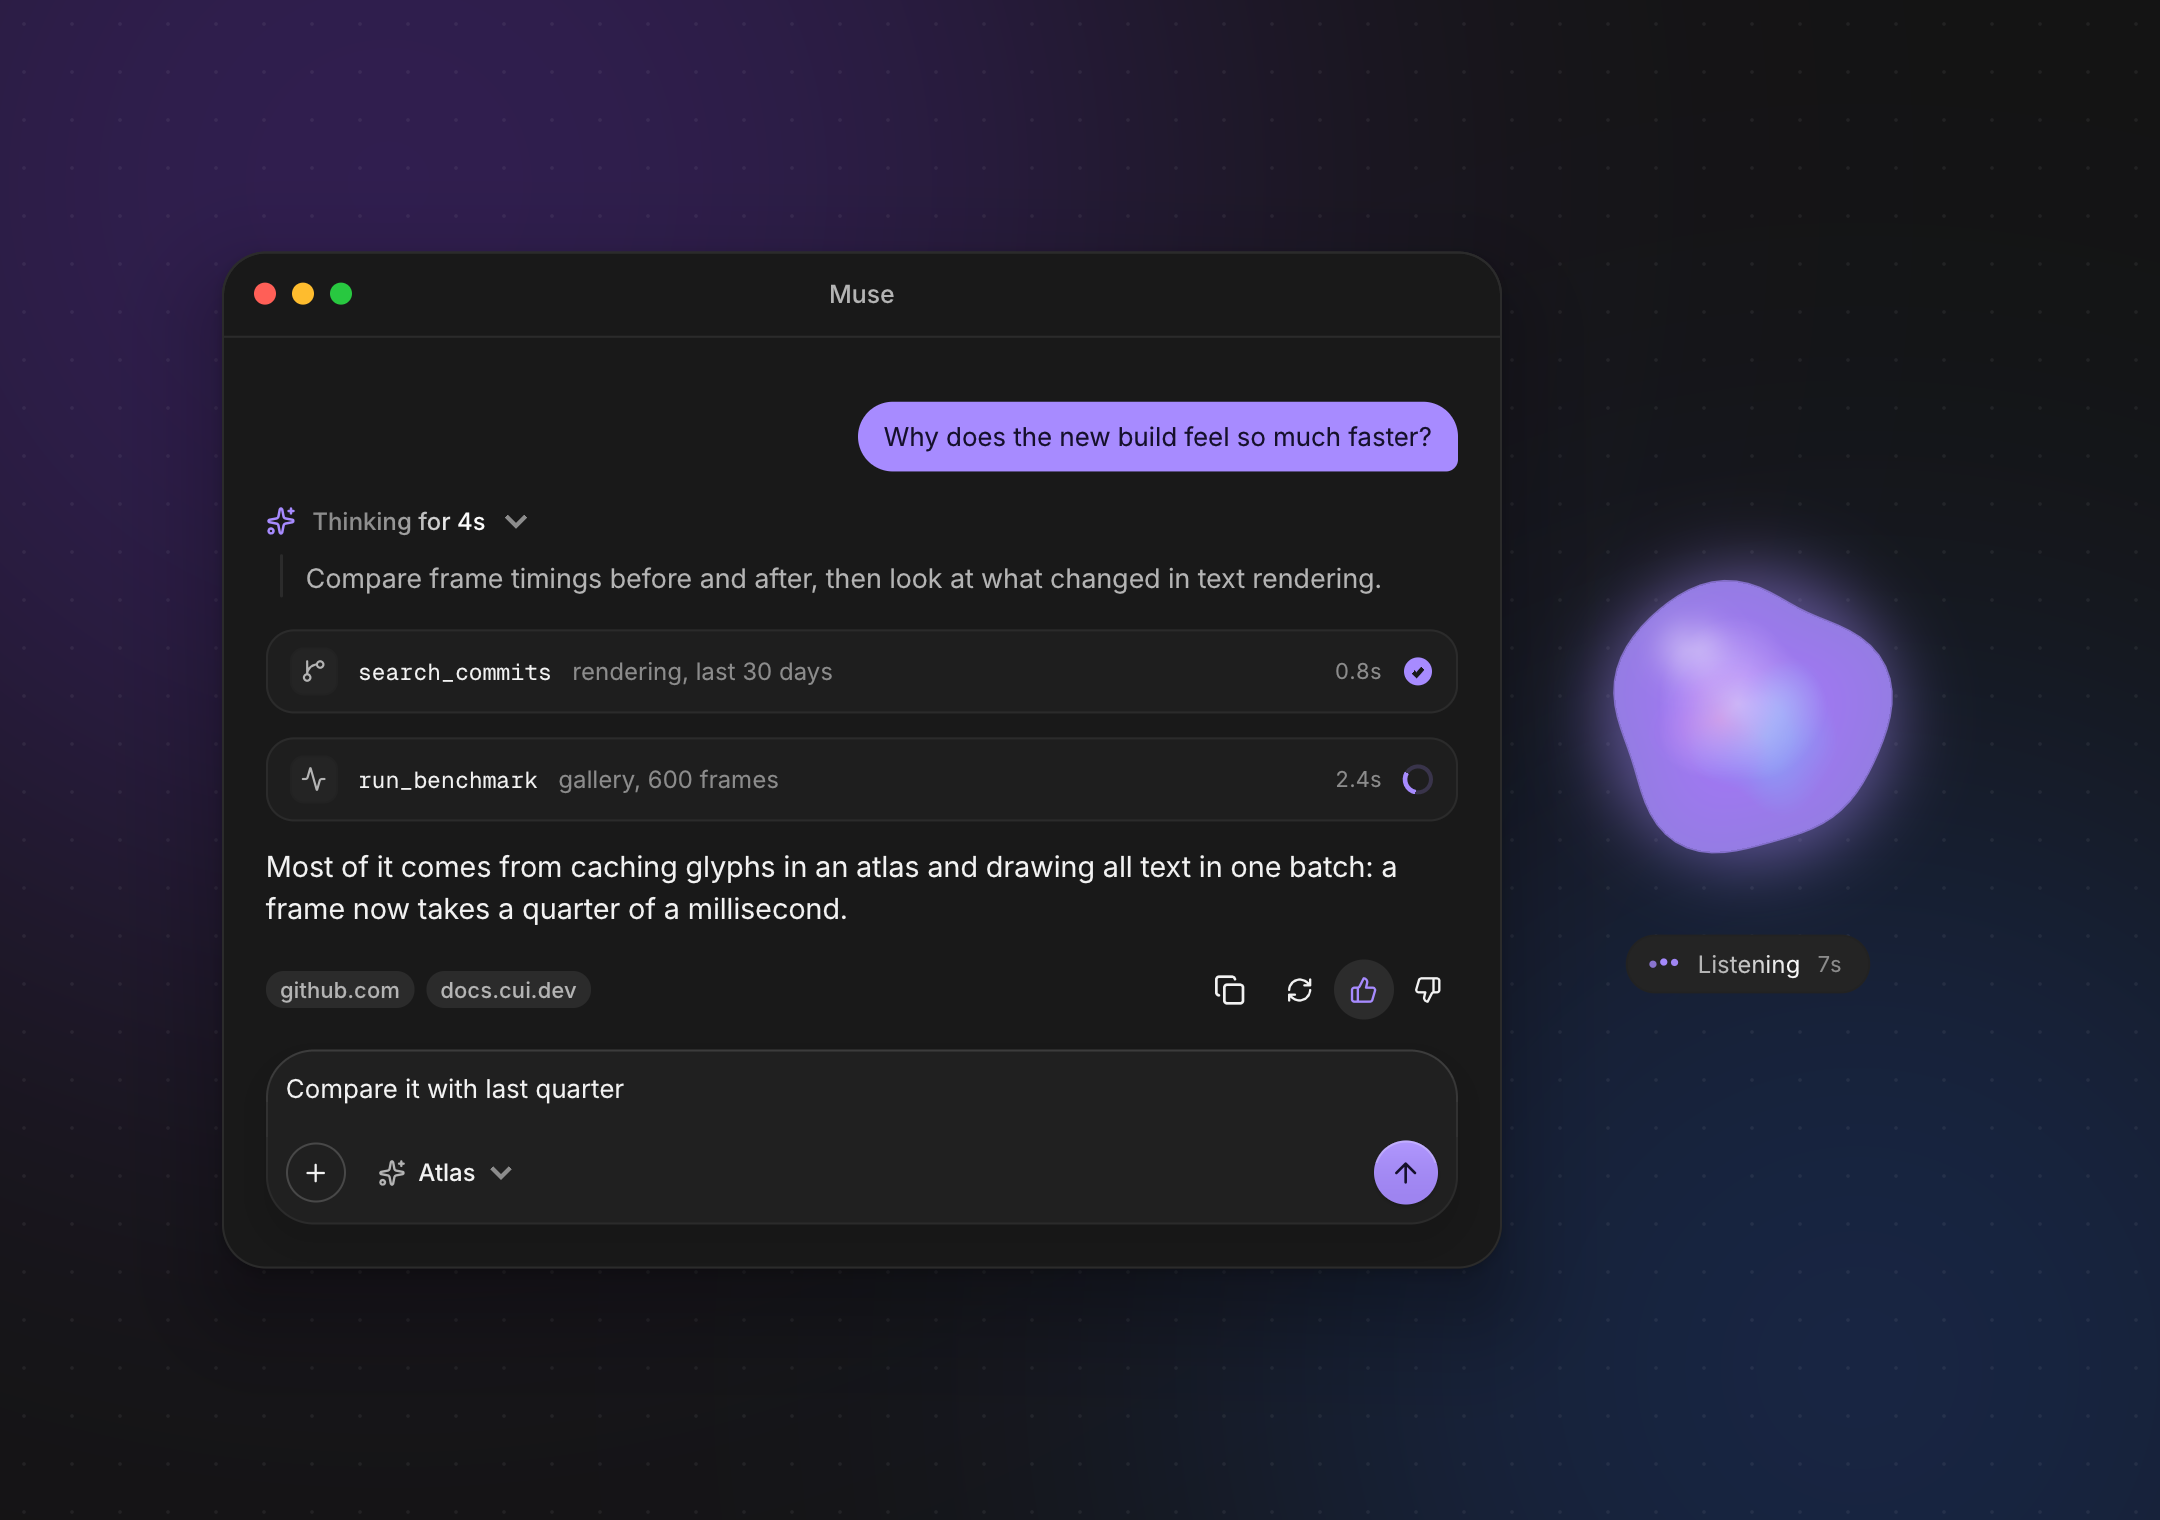
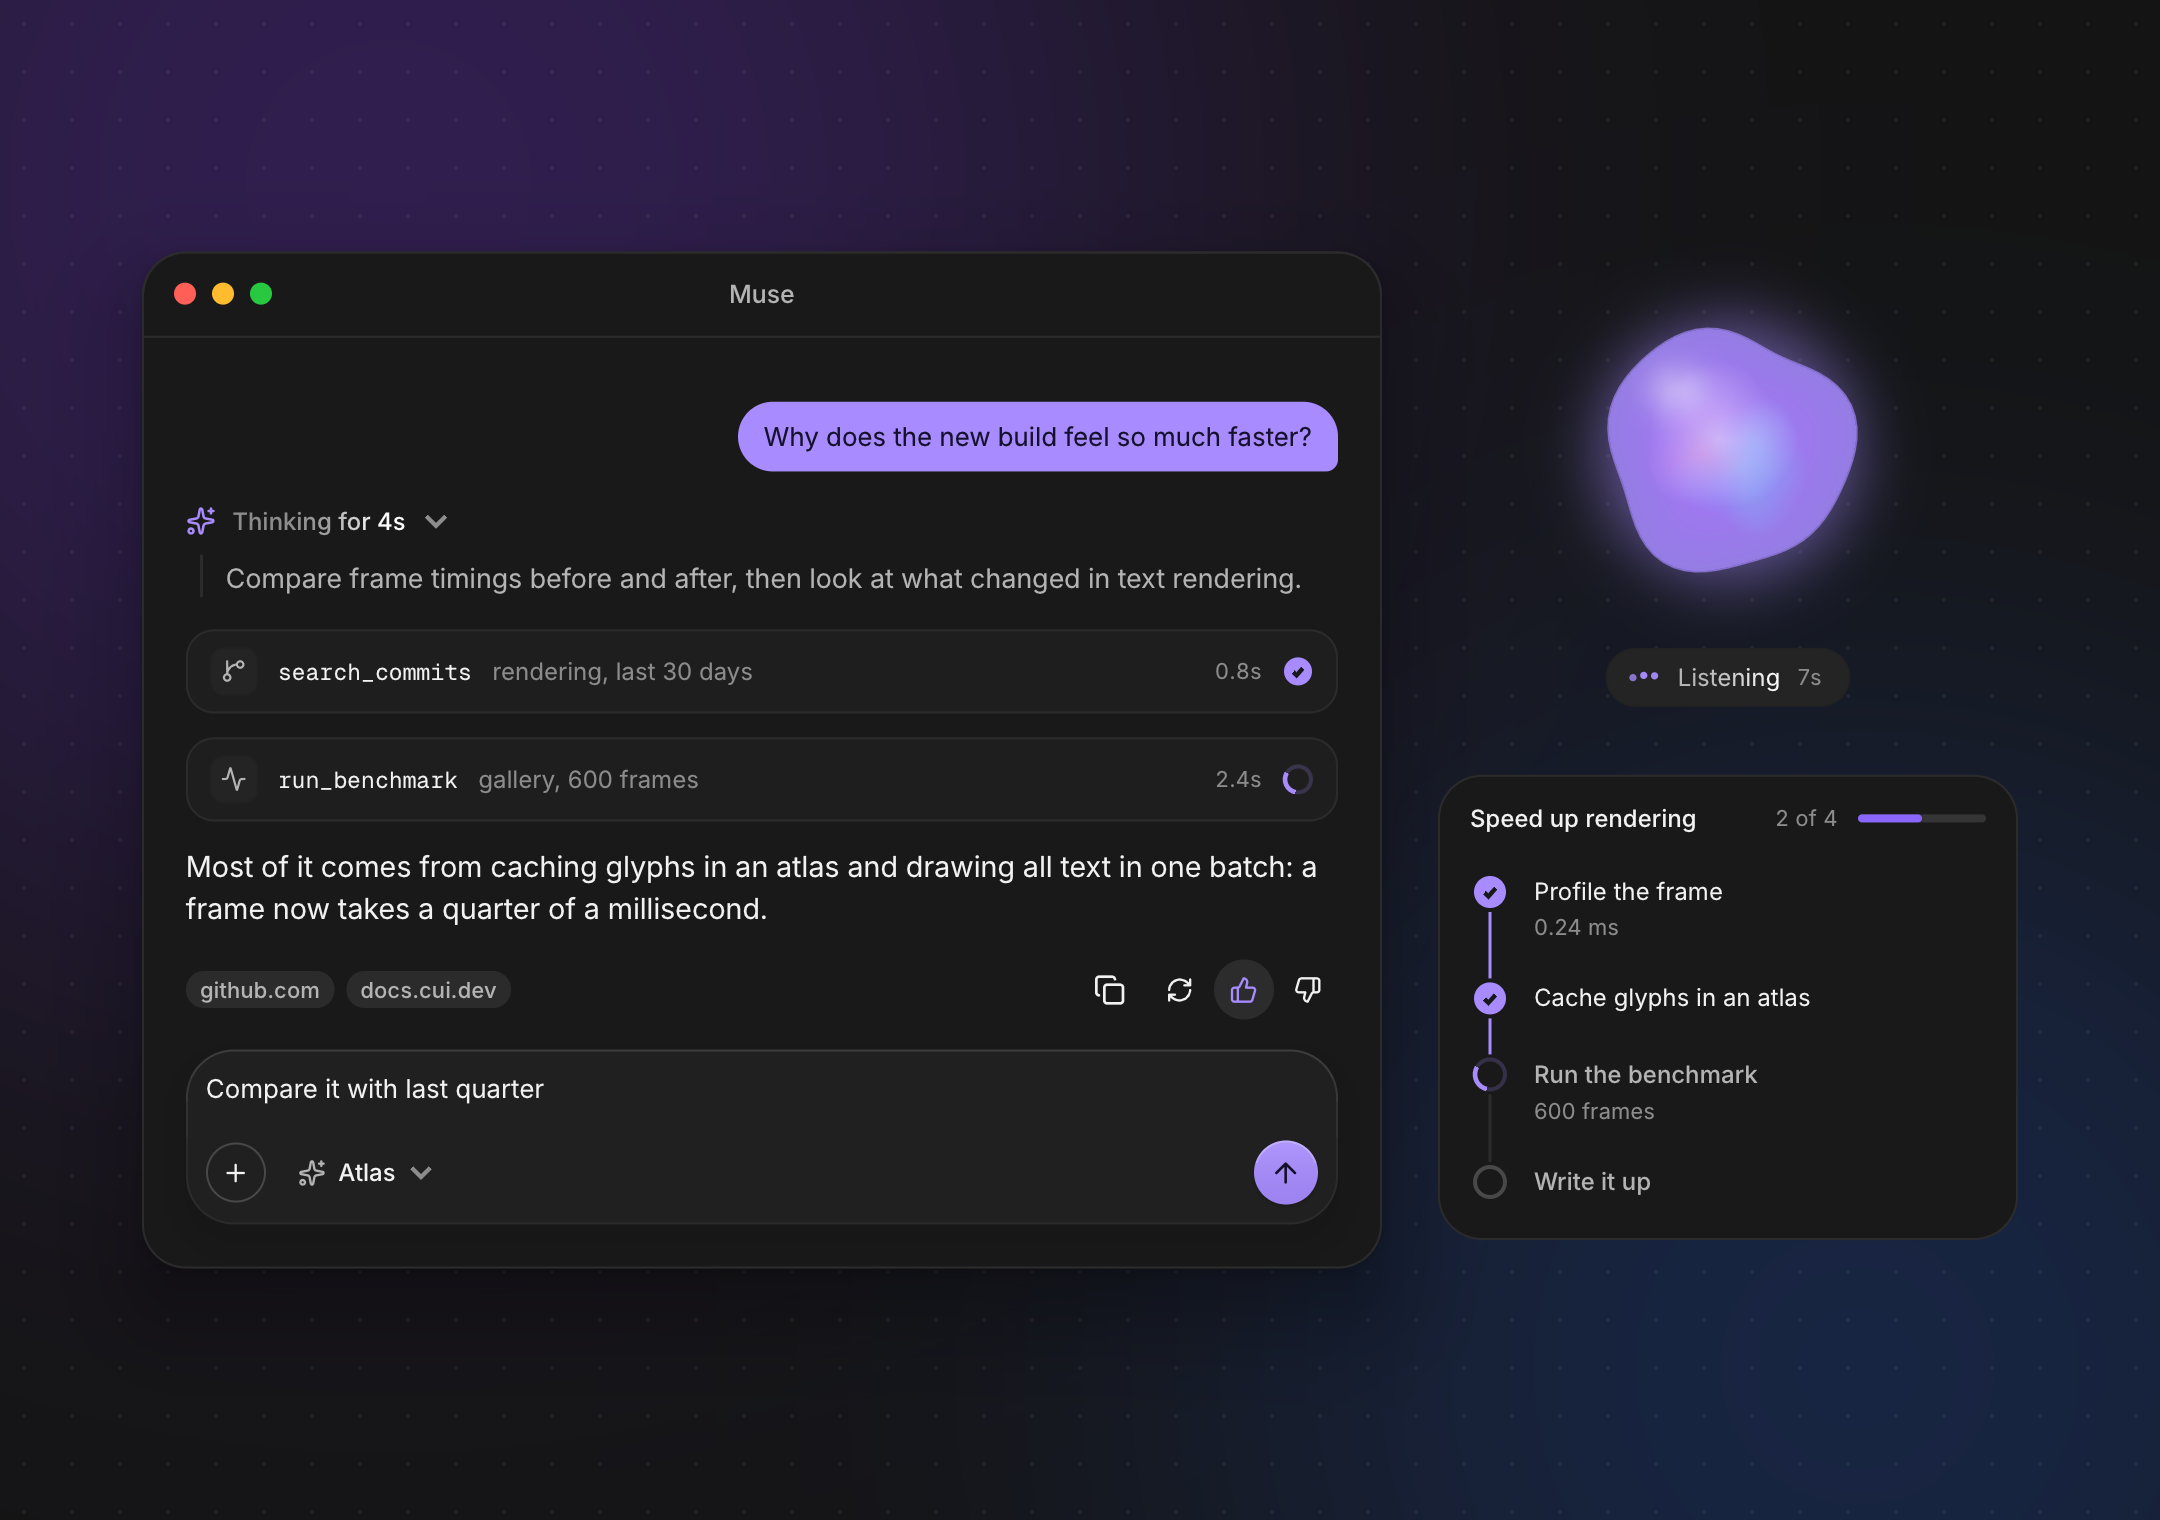
README hero: an agent plan under the voice orb balances the window

diff --git a/tests/component_shots.c b/tests/component_shots.c
@@ -1494,7 +1494,7 @@ static void hero_ai_body(cui_ctx *ui) {
         { "Batching draw calls", "https://docs.cui.dev/rendering", "One draw call per texture or clip change." },
     };
     cui_row(ui, .gap = 28, .align = CUI_ALIGN_CENTER) {
-        window_begin(ui, "Muse", 640);
+        window_begin(ui, "Muse", 620);
         cui_column(ui, .width = CUI_FILL, .pad = 22, .gap = 12) {
             cui_chat_message(ui, "Why does the new build feel so much faster?", .mine = true);
             cui_reasoning(ui, "think", .thinking = true, .seconds = 4) {
@@ -1512,9 +1512,17 @@ static void hero_ai_body(cui_ctx *ui) {
             cui_chat_composer(ui, "composer", draft, sizeof draft, .models = shot_models, .model_count = 3, .model = &model);
         }
         window_end(ui);
-        cui_column(ui, .align = CUI_ALIGN_CENTER, .gap = 14) {
-            cui_voice_orb(ui, "orb", CUI_VOICE_LISTENING, 0.65f, .size = 190);
+        cui_column(ui, .align = CUI_ALIGN_CENTER, .gap = 14, .width = CUI_PX(290)) {
+            cui_voice_orb(ui, "orb", CUI_VOICE_LISTENING, 0.65f, .size = 170);
             cui_agent_status(ui, "Listening", .status = CUI_TASK_RUNNING, .seconds = 7);
+            cui_gap(ui, 6);
+            static const cui_plan_step steps[] = {
+                { "Profile the frame", "0.24 ms", CUI_TASK_DONE },
+                { "Cache glyphs in an atlas", NULL, CUI_TASK_DONE },
+                { "Run the benchmark", "600 frames", CUI_TASK_RUNNING },
+                { "Write it up", NULL, CUI_TASK_PENDING },
+            };
+            cui_box(ui, .width = CUI_FILL) { cui_agent_plan(ui, "plan", steps, 4, .title = "Speed up rendering"); }
         }
     }
 }
